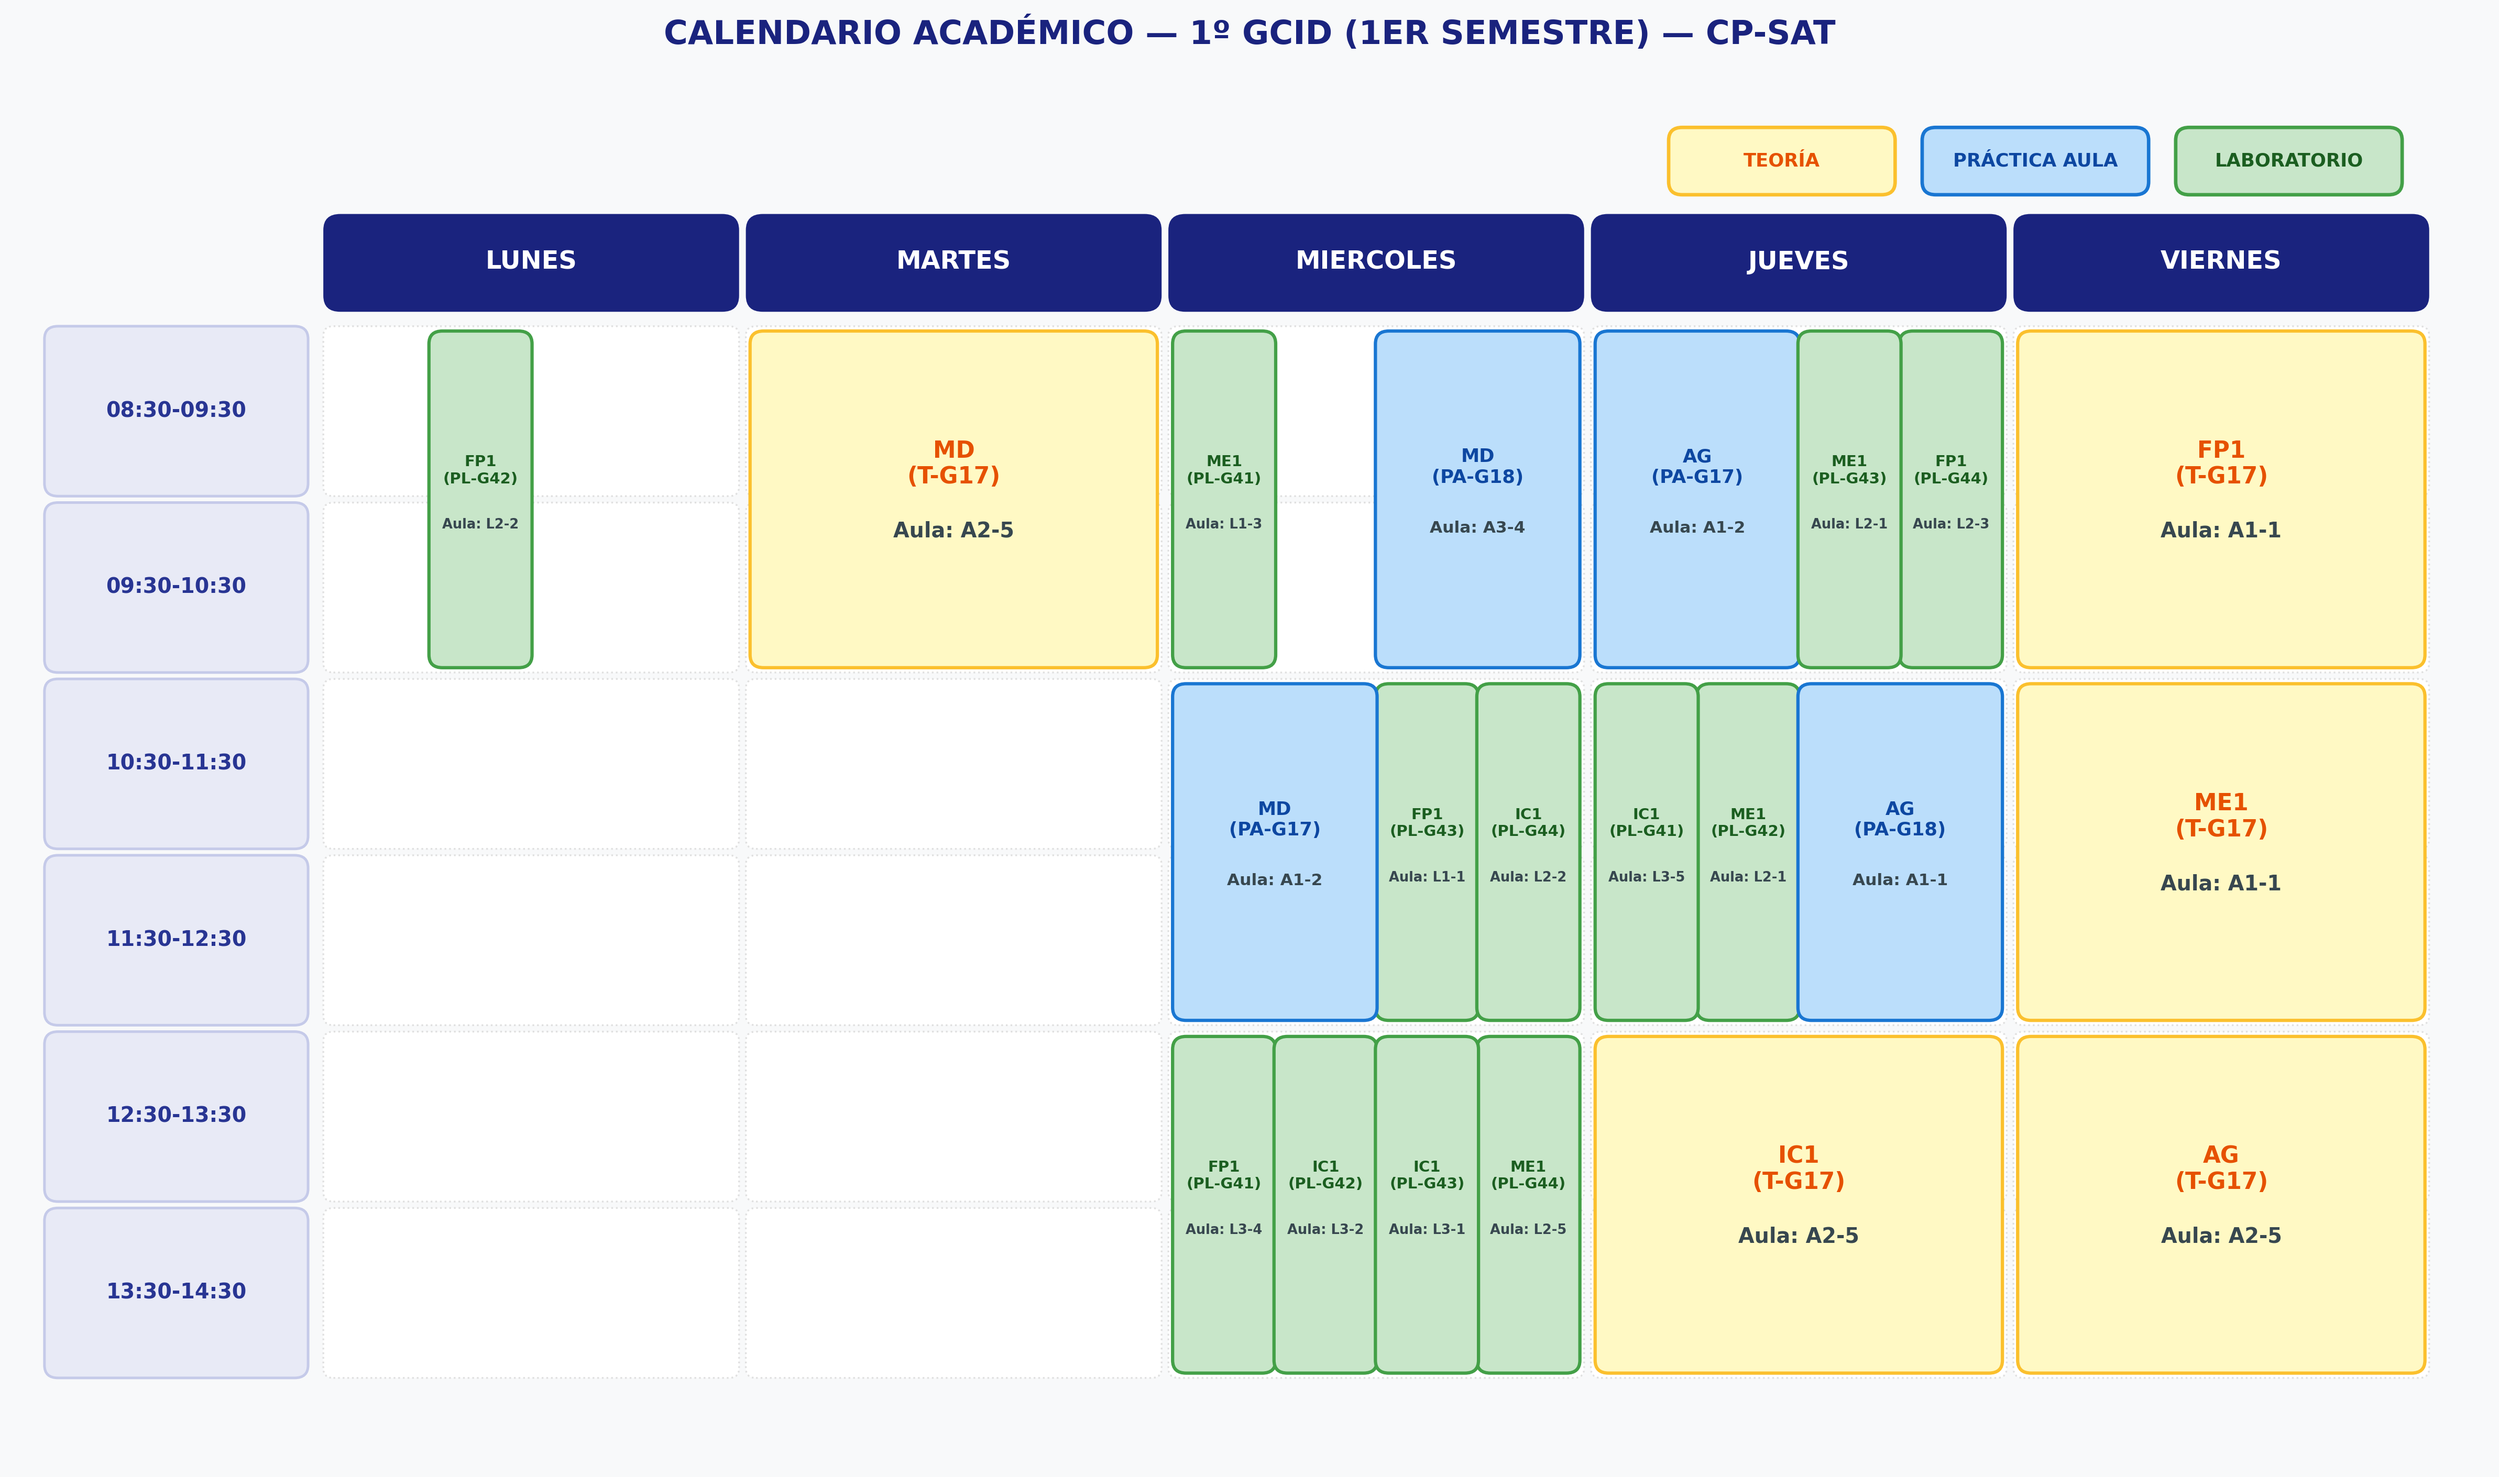
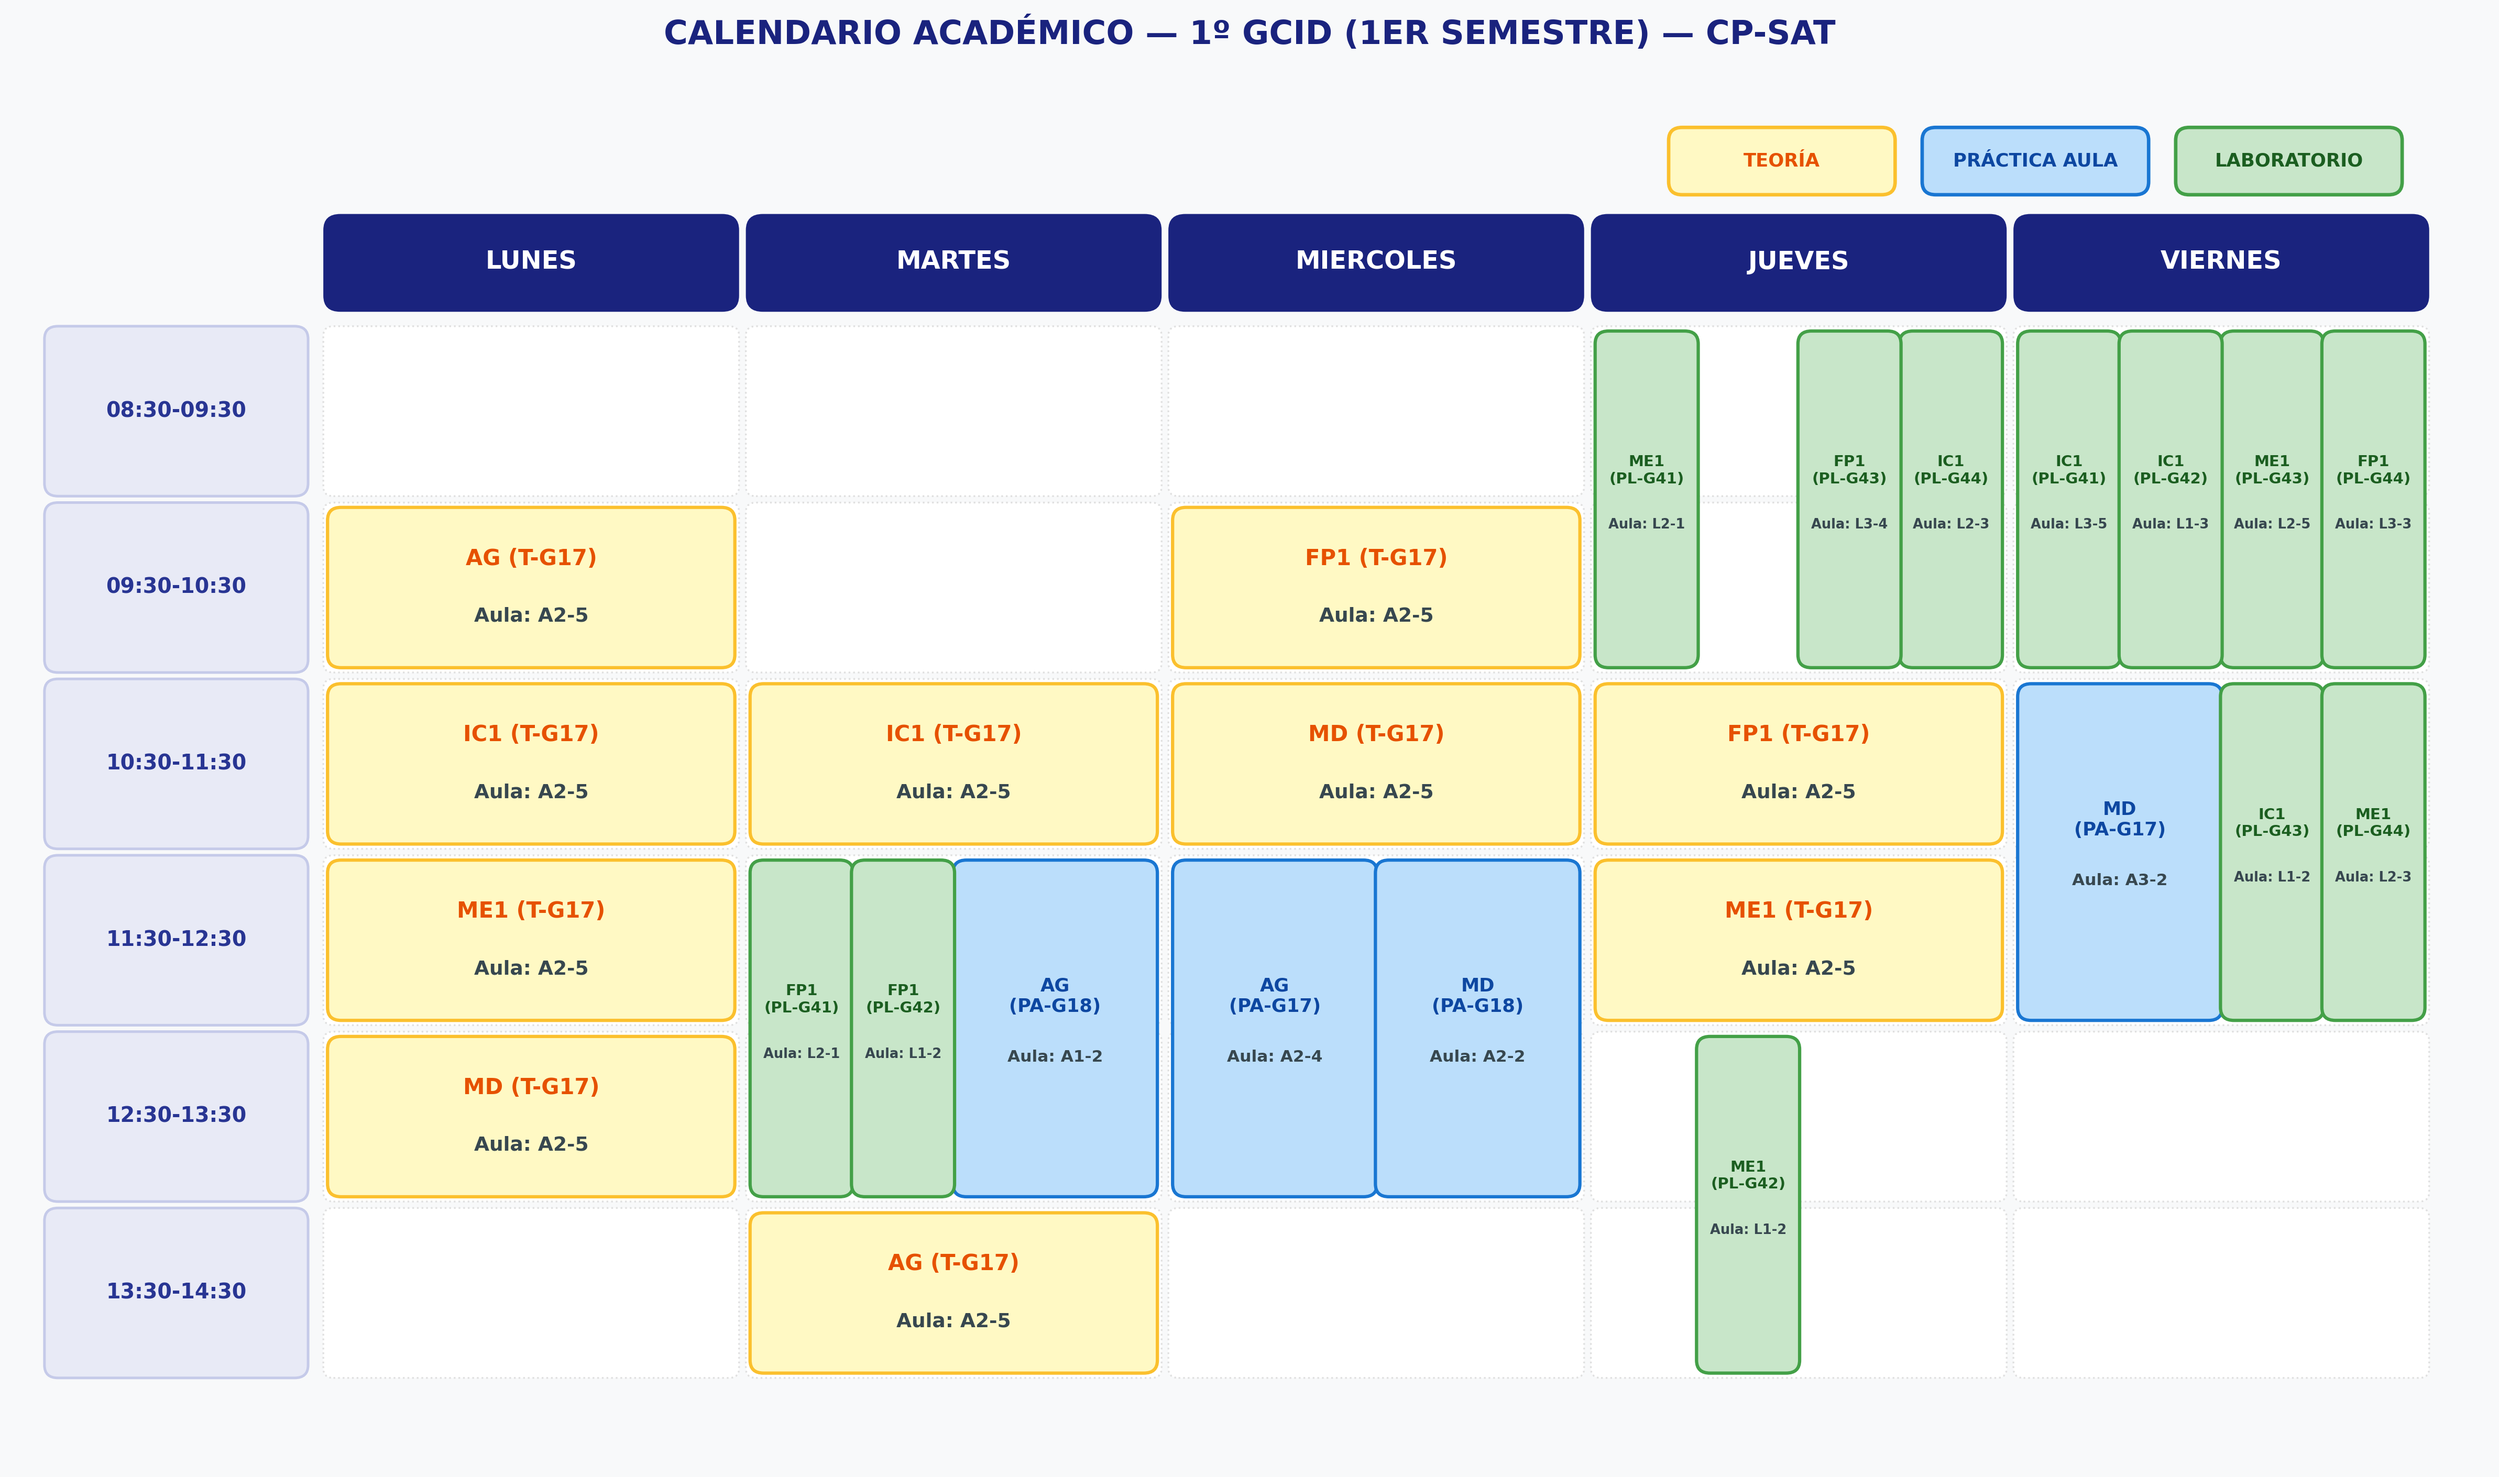
Mejora distribucion asignaturas primer curso

diff --git a/GCID/src/modelo_base.py b/GCID/src/modelo_base.py
@@ -11,7 +11,8 @@ from restricciones import (
     aplicar_restriccion_aulas,
     aplicar_restricciones_blandas,
     aplicar_restriccion_sin_huecos,
-    aplicar_restriccion_dias_libres_practicas
+    aplicar_restriccion_dias_libres_practicas,
+    aplicar_distribucion_teoria_primero
 )
 
 from visualizador import exportar_horario_png
@@ -28,14 +29,19 @@ def modelo_base(cuatrimestre=1):
         "11:30-12:30", "12:30-13:30", "13:30-14:30"
     ]
 
-    # 2. Leer las sesiones desde la carpeta datos/
-    archivos_clases = glob.glob("datos/clases_*.csv")
+    # 2. Leer las sesiones desde la carpeta datos/ (relativa a GCID/)
+    base_dir = os.path.dirname(os.path.dirname(os.path.abspath(__file__)))
+    ruta_patron = os.path.join(base_dir, "datos", "clases_*.csv")
+    ruta_fallback = os.path.join(base_dir, "datos", "clases.csv")
+    ruta_aulas = os.path.join(base_dir, "datos", "aulas.csv")
+
+    archivos_clases = glob.glob(ruta_patron)
     if archivos_clases:
         df_clases_total = pd.concat([pd.read_csv(f) for f in archivos_clases], ignore_index=True)
-    elif os.path.exists("datos/clases.csv"):
-        df_clases_total = pd.read_csv("datos/clases.csv")
+    elif os.path.exists(ruta_fallback):
+        df_clases_total = pd.read_csv(ruta_fallback)
     else:
-        raise FileNotFoundError("No se encontró ningún archivo de clases en 'datos/'")
+        raise FileNotFoundError(f"No se encontró ningún archivo de clases en '{os.path.join(base_dir, 'datos')}'")
 
     # Limpiar espacios en los nombres de las columnas
     df_clases_total.columns = df_clases_total.columns.str.strip()
@@ -50,7 +56,7 @@ def modelo_base(cuatrimestre=1):
     else:
         df_clases = df_clases_total.copy()
 
-    df_aulas = pd.read_csv("datos/aulas.csv")
+    df_aulas = pd.read_csv(ruta_aulas)
     df_aulas.columns = df_aulas.columns.str.strip()
 
     print(f"\n=======================================================")
@@ -95,10 +101,13 @@ def modelo_base(cuatrimestre=1):
     # D. Aulas (capacidad, tipo y evitar solapamiento físico)
     aula_asignada = aplicar_restriccion_aulas(model, df_clases, df_aulas, start_vars, end_vars)
     
-    # E. Sin huecos libres para el mismo grupo dentro de cada curso
+    # E. Sin huecos libres en el itinerario diario de cada subgrupo
     aplicar_restriccion_sin_huecos(model, df_clases, start_vars, end_vars, horas_por_dia)
+
+    # F. Reparto de teorías de 1h en días distintos y máximo 4h/día en 1º curso
+    aplicar_distribucion_teoria_primero(model, df_clases, start_vars, horas_por_dia)
     
-    # F. Si estamos optimizando el 2º cuatrimestre, liberamos jueves y viernes para prácticas externas
+    # G. Si estamos optimizando el 2º cuatrimestre, liberamos jueves y viernes para prácticas externas
     if cuatrimestre == 2:
         aplicar_restriccion_dias_libres_practicas(model, df_clases, start_vars)
 

diff --git a/GCID/src/restricciones.py b/GCID/src/restricciones.py
@@ -244,6 +244,46 @@ def aplicar_restriccion_dias_libres_practicas(model, df_clases, start_vars):
         model.Add(start_vars[s_id] < 18)
 
 
+def aplicar_distribucion_teoria_primero(model, df_clases, start_vars, horas_por_dia=6):
+    """
+    1. Impide que las dos sesiones de teoría de 1h de una misma asignatura en 1º caigan el mismo día.
+    2. Limita la jornada de 1º a máximo 4h/día para repartir las 20h semanales de lunes a viernes.
+    """
+    df_1 = df_clases[df_clases["curso"] == 1].copy()
+    if df_1.empty:
+        return
+
+    df_1["id_str"] = df_1["id_sesion"].astype(str).str.strip()
+    df_1["tipo_str"] = df_1["tipo"].astype(str).str.strip().str.lower()
+
+    # 1. Teorías de la misma asignatura en días distintos
+    df_teoria = df_1[df_1["tipo_str"] == "teoria"]
+    for asig, grupo_asig in df_teoria.groupby("asignatura"):
+        ids = grupo_asig["id_str"].tolist()
+        if len(ids) > 1:
+            dias = []
+            for s_id in ids:
+                d_var = model.NewIntVar(0, 4, f"dia_t1_{asig}_{s_id}")
+                model.AddDivisionEquality(d_var, start_vars[s_id], horas_por_dia)
+                dias.append(d_var)
+            model.AddAllDifferent(dias)
+
+    # 2. Máximo 4 horas diarias por itinerario de 1º (fuerza 4h/día de lunes a viernes)
+    itinerarios = obtener_sesiones_por_itinerario(df_1)
+    for sub, lista_ids in itinerarios.items():
+        for d in range(5):
+            horas_dia = []
+            for s_id in lista_ids:
+                dur = int(df_1[df_1["id_str"] == s_id]["duracion_horas"].iloc[0])
+                dia_var = model.NewIntVar(0, 4, f"d_cap1_{sub}_{s_id}_{d}")
+                model.AddDivisionEquality(dia_var, start_vars[s_id], horas_por_dia)
+                en_dia = model.NewBoolVar(f"en_cap1_{sub}_{s_id}_{d}")
+                model.Add(dia_var == d).OnlyEnforceIf(en_dia)
+                model.Add(dia_var != d).OnlyEnforceIf(en_dia.Not())
+                horas_dia.append(en_dia * dur)
+            model.Add(sum(horas_dia) <= 4)
+
+
 # RESTRICCIONES BLANDAS (Criterios a optimizar en la función objetivo)
 
 def aplicar_restricciones_blandas(model, df_clases, start_vars, aula_assign, total_slots=30, aula_preferida="A2-5"):

diff --git a/GCID/src/metaheuristica.py b/GCID/src/metaheuristica.py
@@ -135,6 +135,43 @@ def preparar_estructuras(df_clases, df_aulas, cuatrimestre, horas_por_dia=6, tot
     return sesiones, meta, pares_estudiantes, pares_profesores, grupos_sesiones
 
 
+def contar_violaciones_primero(estado, meta, grupos_sesiones, horas_por_dia=6):
+    """
+    Evalúa las reglas de distribución de 1º curso:
+    1. Dos teorías de la misma asignatura no pueden caer el mismo día.
+    2. Máximo 4 horas lectivas por día en cada subgrupo de 1º.
+    """
+    violaciones = 0
+
+    # 1. Teorías de la misma asignatura en días distintos
+    teorias_por_asig = {}
+    for s_id, info in meta.items():
+        if int(info["curso"]) == 1 and str(info.get("tipo", "")).strip().lower() == "teoria":
+            asig = str(info["asignatura"]).strip()
+            teorias_por_asig.setdefault(asig, []).append(s_id)
+
+    for asig, ids in teorias_por_asig.items():
+        if len(ids) > 1:
+            dias = [estado[s_id][0] // horas_por_dia for s_id in ids]
+            violaciones += len(dias) - len(set(dias))
+
+    # 2. Tope de 4 horas diarias en 1º curso
+    for (curso, sub), lista_ids in grupos_sesiones.items():
+        if int(curso) != 1:
+            continue
+        horas_dia = [0] * 5
+        for s_id in lista_ids:
+            d = estado[s_id][0] // horas_por_dia
+            dur = int(meta[s_id]["dur"])
+            if 0 <= d < 5:
+                horas_dia[d] += dur
+        for h in horas_dia:
+            if h > 4:
+                violaciones += (h - 4)
+
+    return violaciones
+
+
 def evaluar_estado(estado, sesiones, meta, pares_est, pares_prof, grupos_sesiones,
                    horas_por_dia=6, total_slots=30, aula_preferida="A2-5"):
     violaciones_duras = 0
@@ -194,6 +231,7 @@ def evaluar_estado(estado, sesiones, meta, pares_est, pares_prof, grupos_sesione
         if "teor" in m["tipo"] and m["grupo"] == "17" and aula != aula_preferida:
             coste_blando += 25
 
+    violaciones_duras += contar_violaciones_primero(estado, meta, grupos_sesiones)
     coste_total = (violaciones_duras * 10000) + (horas_hueco * 2000) + coste_blando
     return coste_total, violaciones_duras, horas_hueco, coste_blando
 
